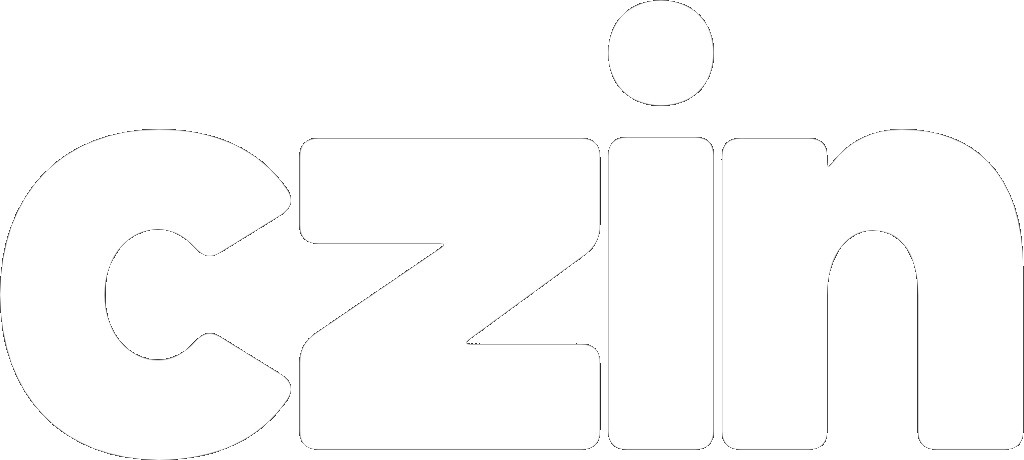
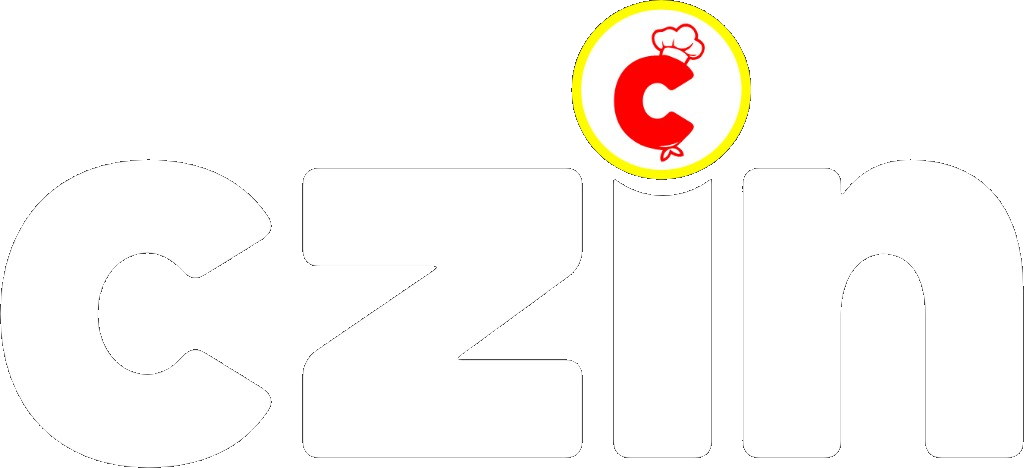
Update navbar brand mark and wordmark assets.
Swap in the chef-hat round logo and wide czin wordmark, with a light-background wordmark that keeps the colored i-dot.

diff --git a/resources/css/app.css b/resources/css/app.css
@@ -80,10 +80,6 @@
         @apply text-brand-yellow;
     }
 
-    .logo-wordmark-on-light {
-        filter: brightness(0);
-    }
-
     .storefront-navbar .currency-badge {
         @apply border-white/30 bg-white/10 text-white;
     }

diff --git a/resources/views/components/logo.blade.php b/resources/views/components/logo.blade.php
@@ -20,8 +20,10 @@
         default => 'h-5 w-auto object-contain',
     };
 
-    // light = light backgrounds (black/red wordmark via CSS); on-red/dark = white wordmark
-    $wordmarkFilter = $variant === 'light' ? 'logo-wordmark-on-light' : '';
+    // light = black wordmark (keeps colored i-dot); on-red/dark = white wordmark
+    $wordmarkSrc = $variant === 'light'
+        ? asset('images/brand/ctext-on-light.png')
+        : asset('images/brand/ctext.png');
 @endphp
 
 <a href="{{ $href }}" {{ $attributes->merge(['class' => 'inline-flex shrink-0 items-center gap-2']) }}>
@@ -31,9 +33,9 @@
         class="{{ $imageClass }}"
     >
     <img
-        src="{{ asset('images/brand/ctext.png') }}"
+        src="{{ $wordmarkSrc }}"
         alt=""
         aria-hidden="true"
-        @class([$textClass, $wordmarkFilter, 'hidden sm:block' => $hideTextOnMobile])
+        @class([$textClass, 'hidden sm:block' => $hideTextOnMobile])
     >
 </a>
